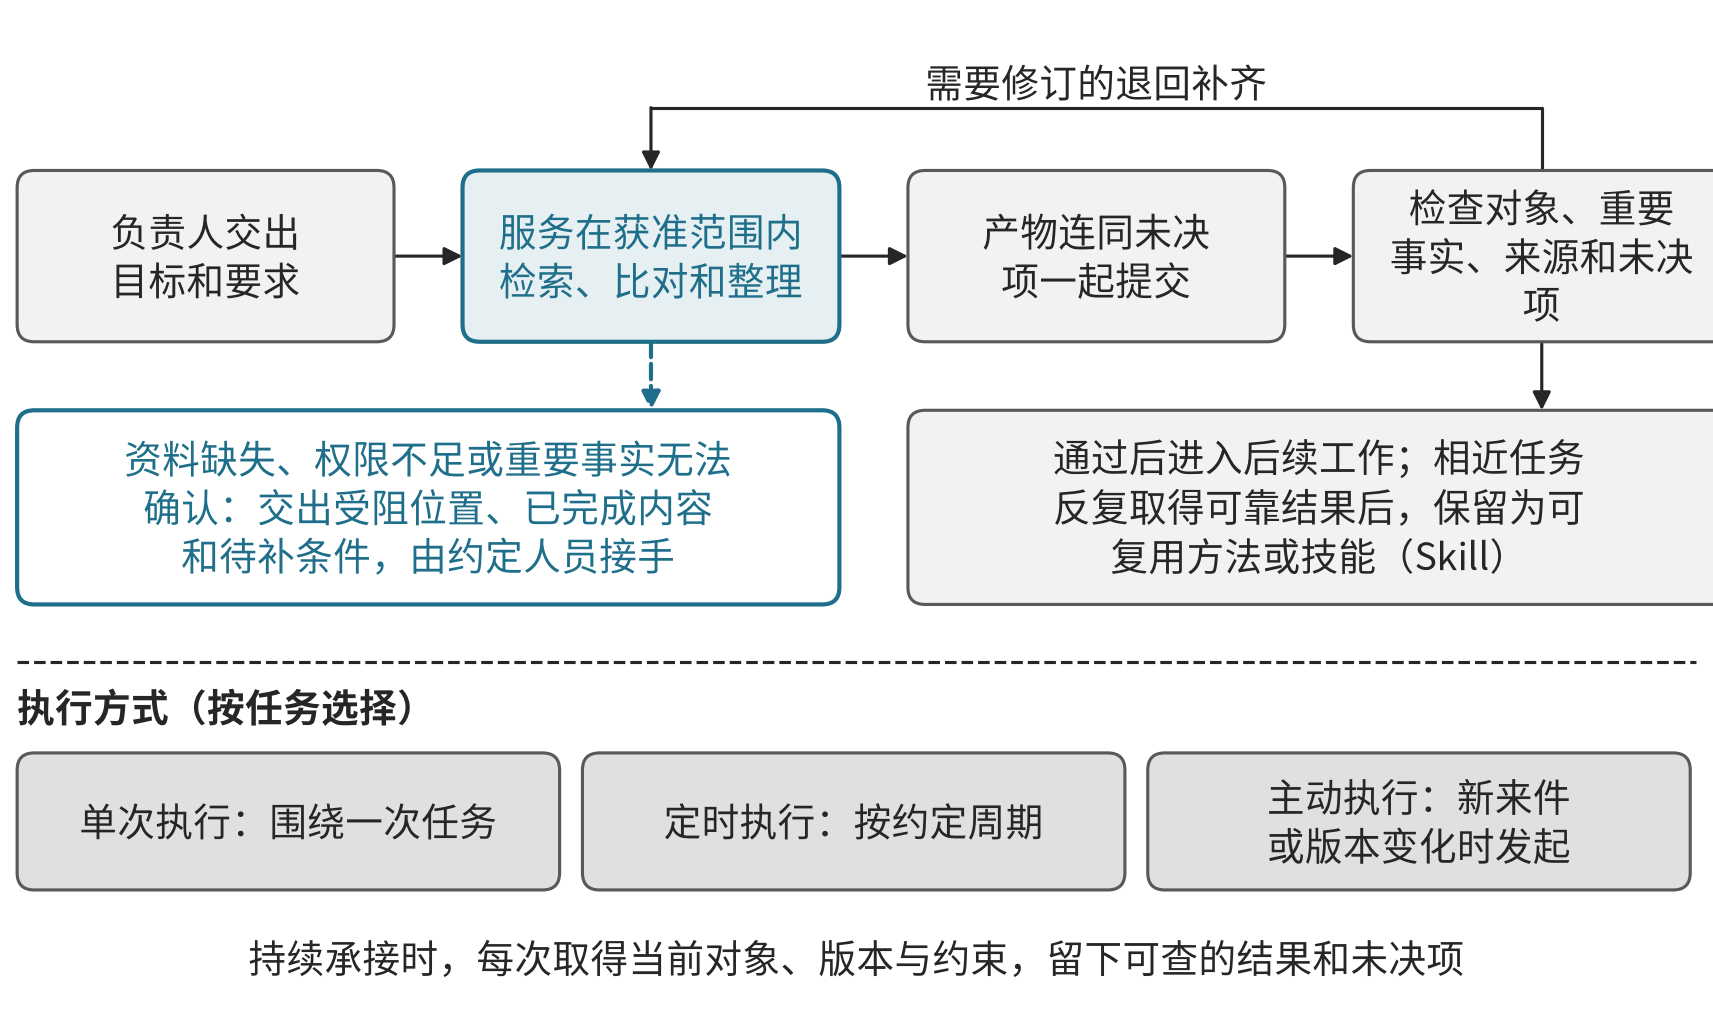
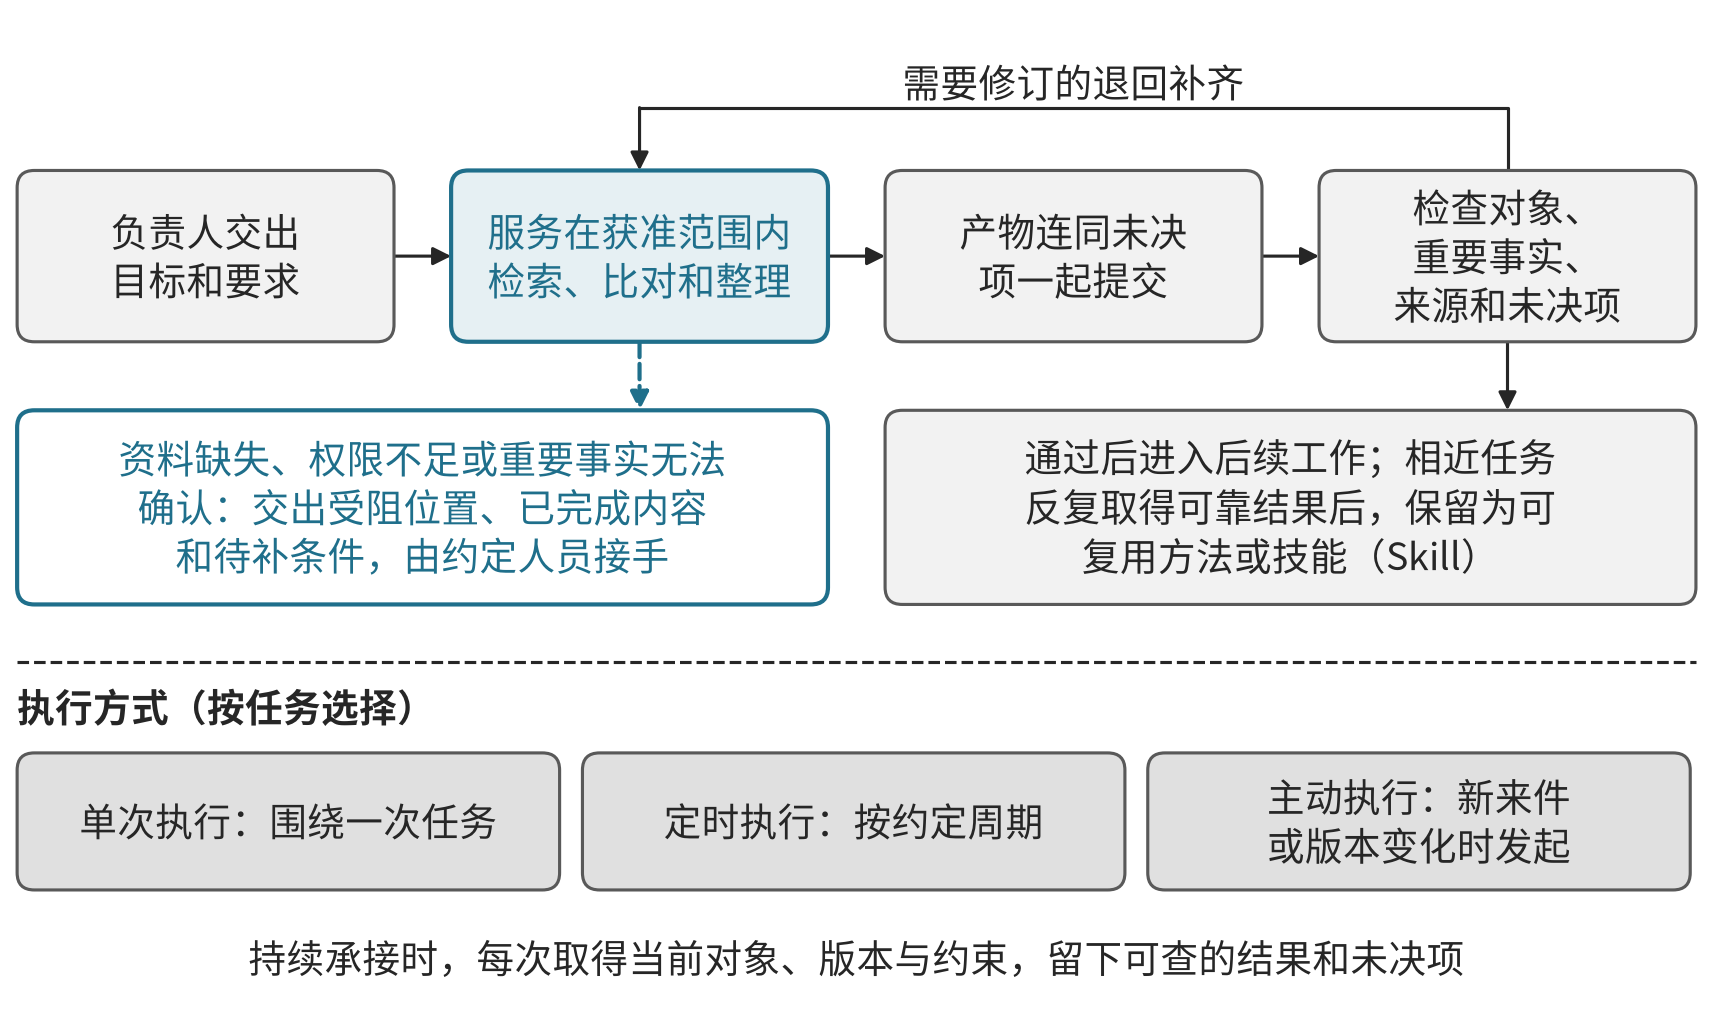
审读修订：图1-1、3-1、5-2、8-2、8-3版面与措辞

diff --git a/scripts/figures/specs.py b/scripts/figures/specs.py
@@ -314,18 +314,18 @@ def flow_marks(steps, marks, legend, feedback=None, base=None, branches=None, bo
 @fig('T-01-1', UP, '01-智力即服务.md', '负责人交出目标和要求', '一项任务交给智力服务的过程', '01-1-任务交给智力服务', SELF)
 def _():
     f = Fig(9.0); bw, bh, y = 3.3, 1.5, 6.0
-    steps = ['负责人交出目标和要求', '服务在获准范围内检索、比对和整理', '产物连同未决项一起提交', '检查对象、重要事实、来源和未决项']
-    xs = [0.15 + i * (bw + 0.6) for i in range(4)]
+    steps = ['负责人交出目标和要求', '服务在获准范围内检索、比对和整理', '产物连同未决项一起提交', '检查对象、重要事实、\n来源和未决项']
+    g = 0.5; xs = [0.15 + i * (bw + g) for i in range(4)]
     for i, (x, t) in enumerate(zip(xs, steps)):
         f.box(x, y, bw, bh, t, accent=(i == 1))
-        if i: f.arrow((x - 0.6, y + bh / 2), (x, y + bh / 2))
+        if i: f.arrow((x - g, y + bh / 2), (x, y + bh / 2))
     x1, x2 = xs[3] + bw / 2, xs[1] + bw / 2; yt = y + bh + 0.55
     f.line([x1, x1, x2], [y + bh, yt, yt]); f.arrow((x2, yt), (x2, y + bh))
     f.text((x1 + x2) / 2, yt + 0.22, '需要修订的退回补齐')
     f.arrow((xs[1] + bw / 2, y), (xs[1] + bw / 2, y - 0.6), accent=True, dashed=True)
-    f.box(xs[0], 3.7, 2 * bw + 0.6, 1.7, '资料缺失、权限不足或重要事实无法确认：交出受阻位置、已完成内容和待补条件，由约定人员接手', accent=True, fill='white', fs=9)
+    f.box(xs[0], 3.7, 2 * bw + g, 1.7, '资料缺失、权限不足或重要事实无法确认：交出受阻位置、已完成内容和待补条件，由约定人员接手', accent=True, fill='white', fs=9)
     f.arrow((xs[3] + bw / 2, y), (xs[3] + bw / 2, 5.4))
-    f.box(xs[2], 3.7, 2 * bw + 0.6, 1.7, '通过后进入后续工作；相近任务反复取得可靠结果后，保留为可复用方法或技能（Skill）', fs=9)
+    f.box(xs[2], 3.7, 2 * bw + g, 1.7, '通过后进入后续工作；相近任务反复取得可靠结果后，保留为可复用方法或技能（Skill）', fs=9)
     # 执行方式：与主线分开的独立区块（虚线分隔，无连线）
     f.line([0.15, LW - 0.15], [3.2, 3.2], dashed=True)
     f.text(0.15, 2.8, '执行方式（按任务选择）', bold=True, ha='left')
@@ -397,7 +397,7 @@ def _():
 def _():
     return flow_marks(['商机核实与投入决定', '需求、方案与报价评审', '合同签署与开工交接', '履约与变更处置', '成果提交与客户验收', '回款与收尾接手'],
                       {0: '①持续投入，迟无实质推进', 1: '②方案认可，承诺难兑现', 2: '③合同已签，仍难开工',
-                       3: '④进度更新，仍延期返工', 4: '⑤已提交，验收回款被拖', 5: '⑥已收尾，责任问题未了'},
+                       3: '④进度更新，仍延期返工', 4: '⑤已提交，验收回款被拖', 5: '⑥已收尾，责任与同类问题未了'},
                       '深青框：停顿位置，对应3.2.1—3.2.6',
                       base='客群误判返回MTL，产品能力差距进入IPD，客户持续问题进入ITR；原合同责任继续跟踪', box_h=1.5)
 
@@ -458,7 +458,7 @@ def _():
     f.box(0.3, 2.3, 2.4, 2.4, '客户工作受阻：比较时间、可靠性和限制', accent=True)
     f.text(3.4, 6.4, '临时恢复', bold=True, ha='left'); f.text(3.4, 2.2, '长期修正', bold=True, ha='left', color=ACCENT)
     top = ['替代操作或临时配置恢复使用', '执行、验证及期限', '客户接受临时恢复']
-    low = ['确需的修正继续有人承担', '交IPD安排，取得接手及决定', '牵头人取得决定，跟踪现场采用']
+    low = ['确需的修正继续有人承担', '交IPD安排、取得接手', '牵头人取得决定，跟踪现场采用']
     for i, (a, b) in enumerate(zip(top, low)):
         x = 3.1 + i * 3.25
         f.box(x, 4.6, 3.0, 1.4, a); f.box(x, 0.3, 3.0, 1.6, b, accent=True, fill='white')
@@ -493,36 +493,36 @@ def _():
 @fig('T-08-2', UP, '08-实施建议-从改造机会到可验证行动.md', '计划按真实依赖安排并行和先后', '项目包的依赖与并行', '08-2-项目包依赖与并行', SELF)
 def _():
     f = Fig(7.0)
-    f.box(0.3, 4.9, 3.6, 1.1, '对象与状态定义'); f.box(5.0, 4.9, 3.6, 1.1, '写回联调'); f.arrow((3.9, 5.45), (5.0, 5.45))
-    f.box(0.3, 3.0, 3.6, 1.1, '获准读取已有数据', fill=FILL2); f.box(5.0, 3.0, 3.6, 1.1, '查询、整理服务和测试样本', accent=True)
-    f.arrow((3.9, 3.55), (5.0, 3.55), accent=True)
-    f.text(2.1, 4.5, '可同步进行', color=ACCENT)
-    f.box(0.3, 1.1, 3.6, 1.1, '现场缺少必要测量'); f.box(5.0, 1.1, 3.6, 1.1, '采集与专业验证完成'); f.arrow((3.9, 1.65), (5.0, 1.65))
+    f.box(0.3, 4.9, 3.6, 1.1, '对象与状态定义'); f.box(5.6, 4.9, 3.6, 1.1, '写回联调'); f.arrow((3.9, 5.45), (5.6, 5.45))
+    f.box(0.3, 3.0, 3.6, 1.1, '获准读取已有数据', fill=FILL2); f.box(5.6, 3.0, 3.6, 1.1, '查询、整理服务和测试样本', accent=True)
+    f.arrow((3.9, 3.55), (5.6, 3.55), accent=True)
+    f.text(4.75, 3.98, '可同步进行', color=ACCENT, fs=9)
+    f.box(0.3, 1.1, 3.6, 1.1, '现场缺少必要测量'); f.box(5.6, 1.1, 3.6, 1.1, '采集与专业验证完成'); f.arrow((3.9, 1.65), (5.6, 1.65))
     f.box(10.6, 2.75, 4.1, 1.6, '真实运行', bold=True)
-    f.arrow((8.6, 5.45), (10.6, 3.9)); f.arrow((8.6, 3.55), (10.6, 3.55)); f.arrow((8.6, 1.65), (10.6, 3.2), dashed=True)
-    f.text(9.7, 1.6, '须等待', ha='left')
-    f.text(7.5, 6.5, '先后按真实依赖，不按“先数字化、再联网、最后智能化”排成三轮工程', fs=9)
+    f.arrow((9.2, 5.45), (10.6, 3.9)); f.arrow((9.2, 3.55), (10.6, 3.55)); f.arrow((9.2, 1.65), (10.6, 3.2), dashed=True)
+    f.text(10.0, 1.75, '须等待', ha='left')
+    f.text(7.5, 6.5, '先后按真实依赖，无须排成全企业先数字化、再联网、最后智能化的三轮工程', fs=9)
     f.text(7.5, 0.45, '数字化、网络化、智能化的工作可以分布在多个项目包中共同推进')
     return f
 
 @fig('T-08-3', UP, '08-实施建议-从改造机会到可验证行动.md', '运行与验收记录返回目标', '运行反馈的分流：扩展、调整或停止', '08-3-运行反馈分流', SELF)
 def _():
-    f = Fig(8.2)
-    f.box(0.3, 3.4, 2.6, 1.4, '运行与验收记录', bold=True)
+    f = Fig(9.6); c = 5.5
+    f.box(0.3, c - 0.7, 2.6, 1.4, '运行与验收记录', bold=True)
     causes = ['依据错误', '推理不适用', '行动未执行', '执行后无效']
     for i, t in enumerate(causes):
-        y = 6.2 - i * 1.3; f.box(3.5, y, 2.4, 0.95, t, fill='white'); f.arrow((2.9, 4.1), (3.5, y + 0.475))
-        f.arrow((5.9, y + 0.475), (6.4, 4.1))
-    f.text(4.7, 7.55, '查清原因，由不同责任人继续处理')
-    f.box(6.4, 3.2, 2.4, 1.8, '有权者确认改变的范围', fill=FILL2)
+        y = 7.6 - i * 1.3; f.box(3.5, y, 2.4, 0.95, t, fill='white'); f.arrow((2.9, c), (3.5, y + 0.475))
+        f.arrow((5.9, y + 0.475), (6.4, c))
+    f.text(4.7, 8.95, '查清原因，由不同责任人继续处理')
+    f.box(6.4, c - 0.9, 2.4, 1.8, '有权者确认改变的范围', fill=FILL2)
     outs = [('保留或扩大', '可靠交付、实际采用且完整投入合理；扩展前重新核对条件'),
             ('调整', '能够定位和修正：明确责任与期限后重新验证'),
             ('停止', '前提长期不成立或修正后仍达不到要求；记录停止原因和恢复条件')]
     for i, (a, b) in enumerate(outs):
-        y = 5.9 - i * 2.25
+        y = 7.8 - i * 2.65
         f.box(9.3, y + 0.85, 5.5, 0.75, a, accent=True, bold=True); f.box(9.3, y - 0.7, 5.5, 1.5, b, fill='white', fs=9)
-        f.arrow((8.8, 4.1), (9.3, y + 1.2), accent=True)
-    f.text(7.5, 0.35, '修订保留前后版本，用此前失败样本和后续相近任务再验证')
+        f.arrow((8.8, c), (9.3, y + 1.2), accent=True)
+    f.text(7.5, 1.05, '修订保留前后版本，用此前失败样本和后续相近任务再验证')
     return f
 
 
